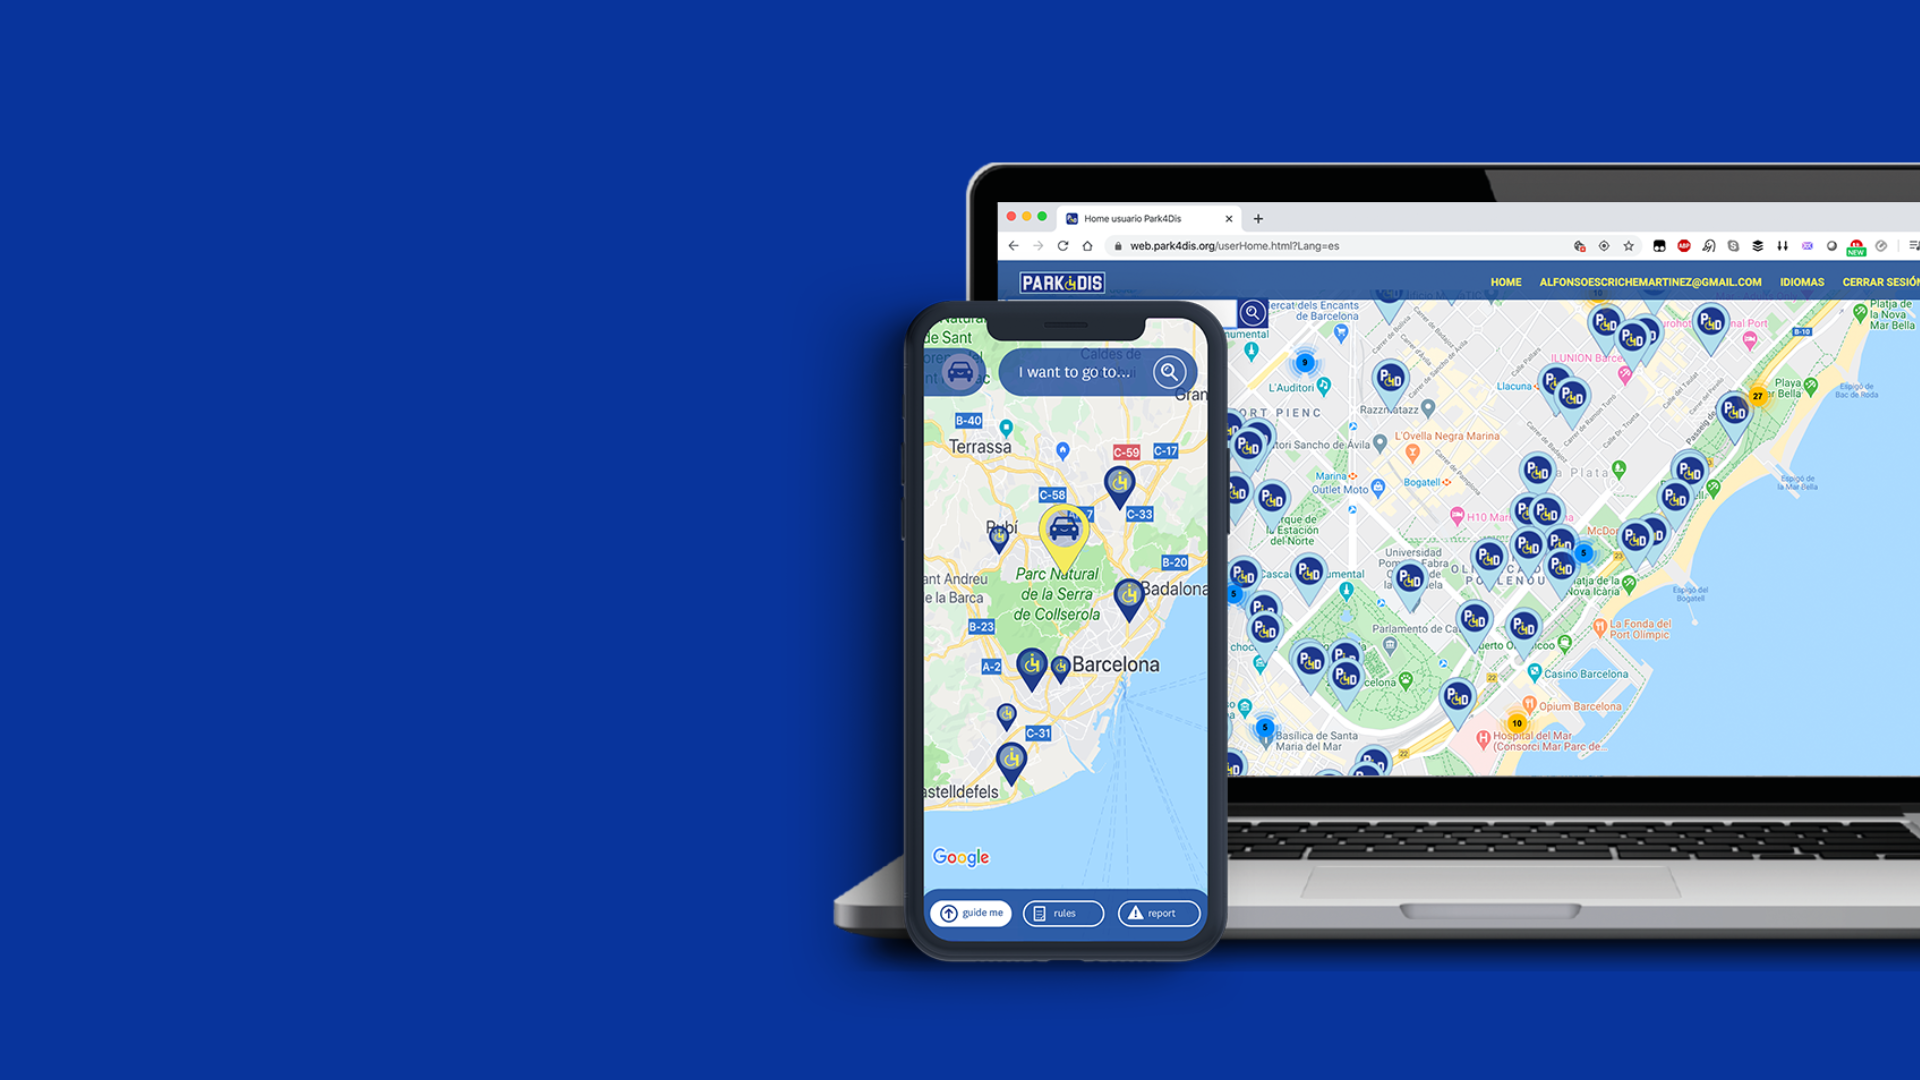
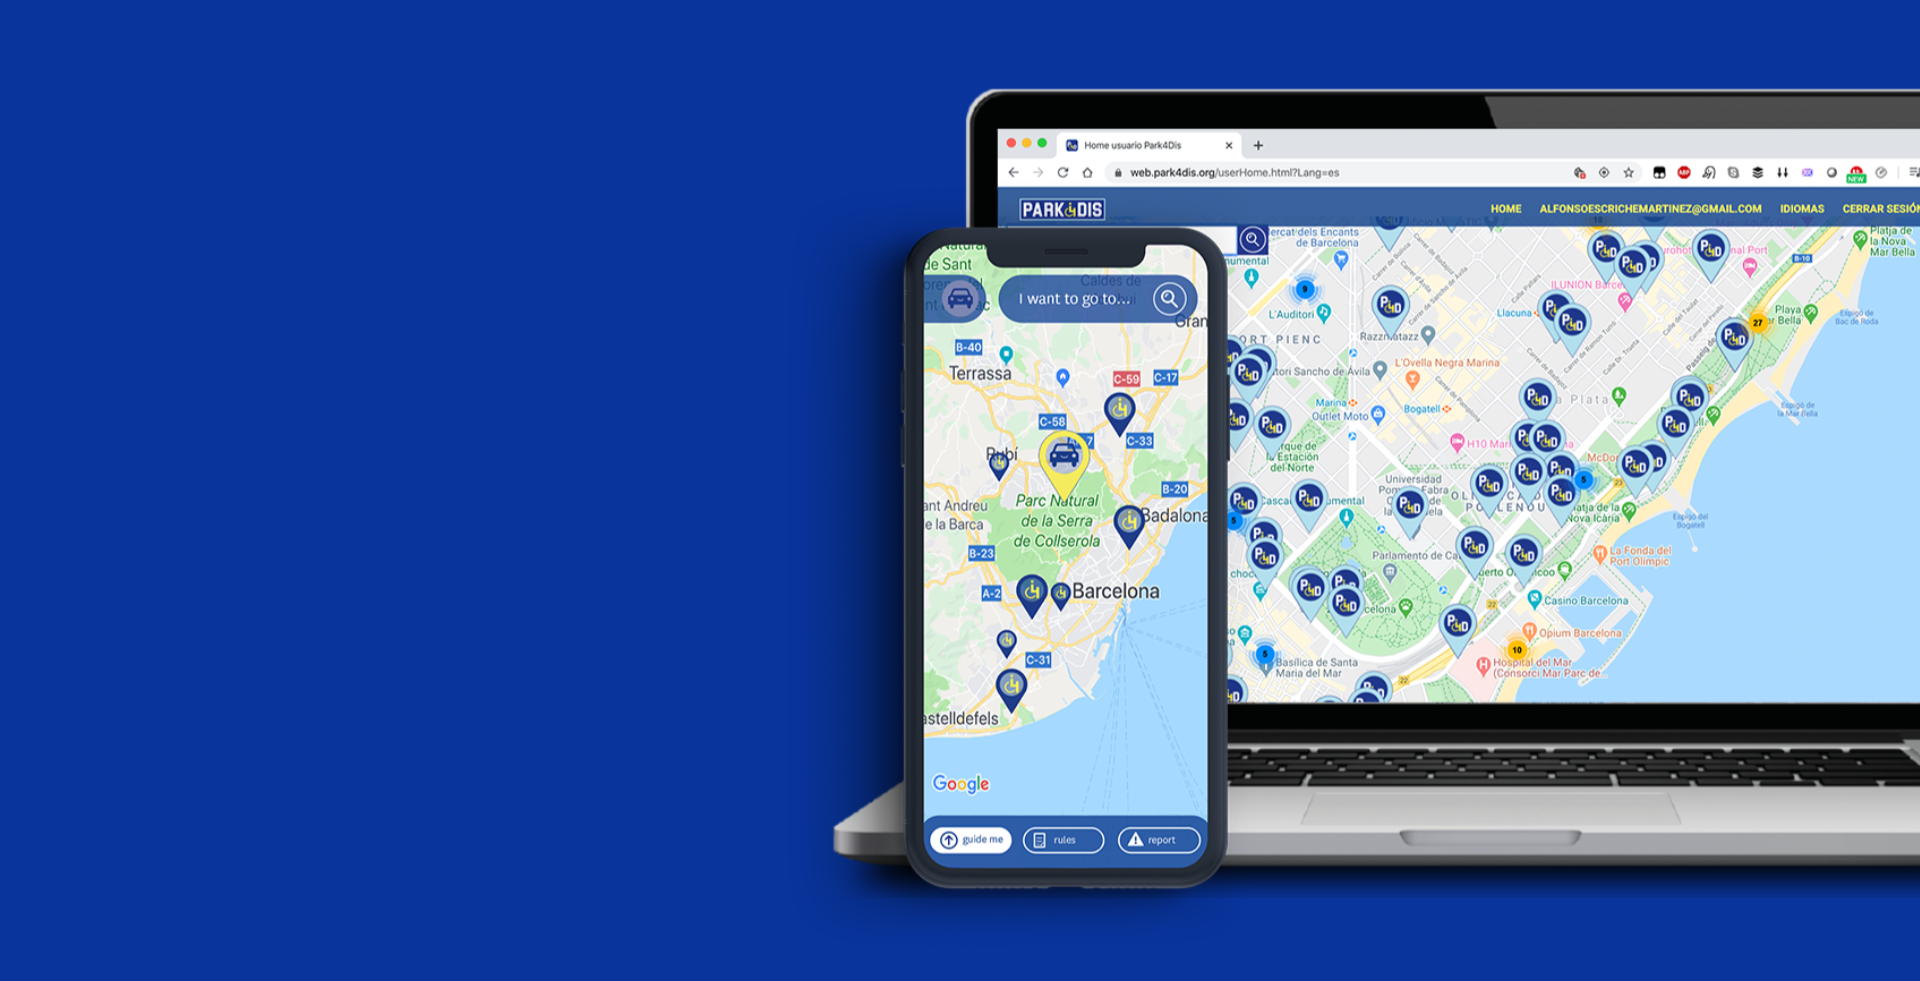
our-clients

Changed region(s): [[0.4375, 0.0917, 1.0, 0.9174]]

diff --git a/index.html b/index.html
@@ -146,7 +146,7 @@
     </div>
 
     <div class="park4dis-succes-sample">
-        <img class="park4dis-succes-sample-image" src="images/park4dis-succes-sample-1.png" alt="Captura de pantalla en la aplicacoin web de Park4Dis"> 
+        <img class="park4dis-succes-sample-image" src="images/park4dis-succes-sample.png" alt="Captura de pantalla en la aplicacoin web de Park4Dis"> 
         <h1 class="h1-park4dis-succes-sample park4dis-succes-sample-item">
             Caso de éxito: Park4Dis
         </h1>
@@ -161,6 +161,13 @@
             sostenibilidad en la movilidad.
         </h3>
         <h4 class="park4dis-succes-sample-more park4dis-succes-sample-item">Saber más <span class="arrow">&#x279C;</span></h4>
+    </div>
+
+    <div class="our-clients">
+        <img class="our-clients-image" src="images/our-clients.png" alt="Escudos de los ayutamientos que son nuestros clientes"> 
+        <h1 class="our-clients-name">
+            Nuestros Clientes
+        </h1>
     </div>
 
 </body>

diff --git a/styles.css b/styles.css
@@ -255,7 +255,6 @@ button {
 .park4dis-succes-sample-image {
     border-radius: 25px;
     max-width: 100%;
-    z-index: -1;
 }
 
 .park4dis-succes-sample-item {
@@ -264,7 +263,6 @@ button {
     left: 7%;
     max-width: 35%;
     text-align: left;
-    z-index: 1;
 }
 
 .h1-park4dis-succes-sample {
@@ -281,4 +279,23 @@ button {
 .park4dis-succes-sample-more {
     color: #97e372;
     top: 65%;
+}
+
+.our-clients {
+    margin: 5%;
+    position: relative;
+}
+
+.our-clients-image {
+    border-radius: 25px;
+    max-width: 100%;
+    position: relative;
+}
+
+.our-clients-name {
+    text-align: center;
+    position: absolute;
+    left: 50%;
+    top: 4%;
+    transform: translate(-50%, -0%);
 }
